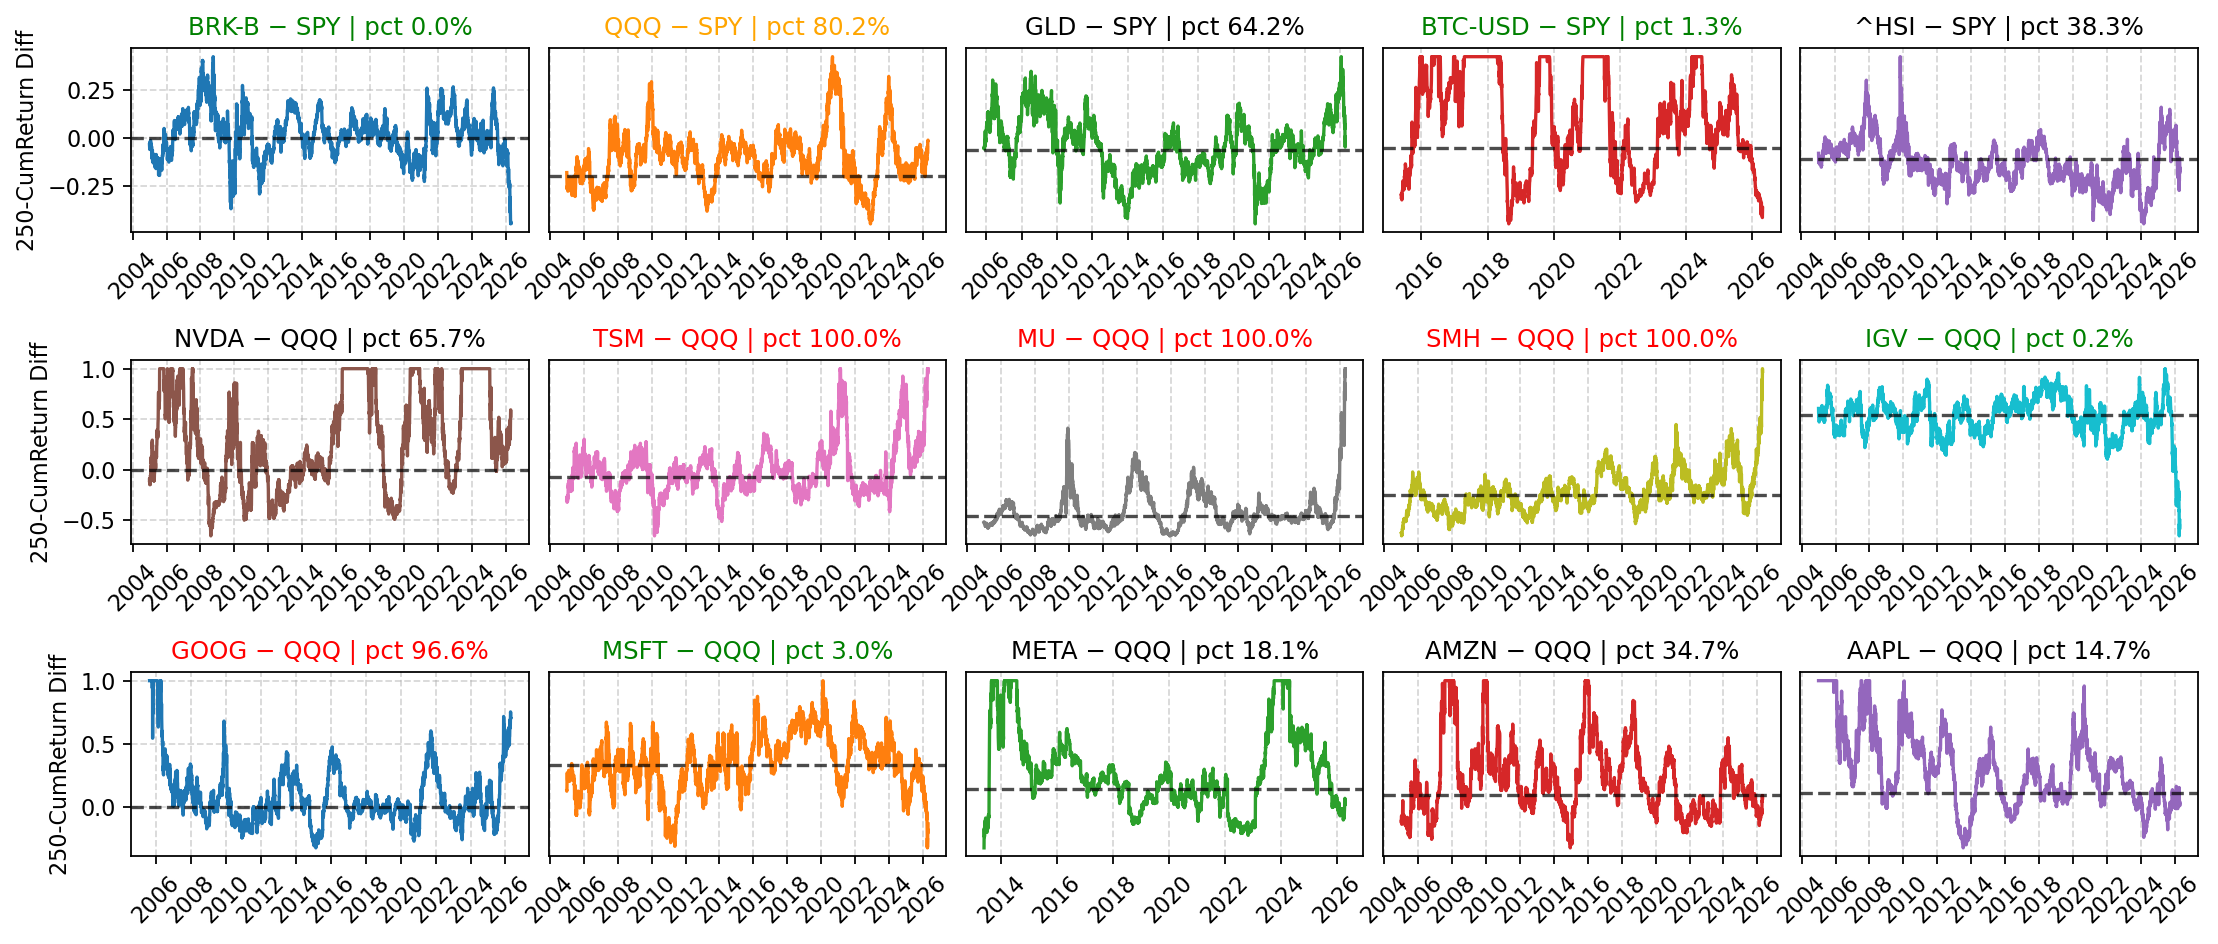
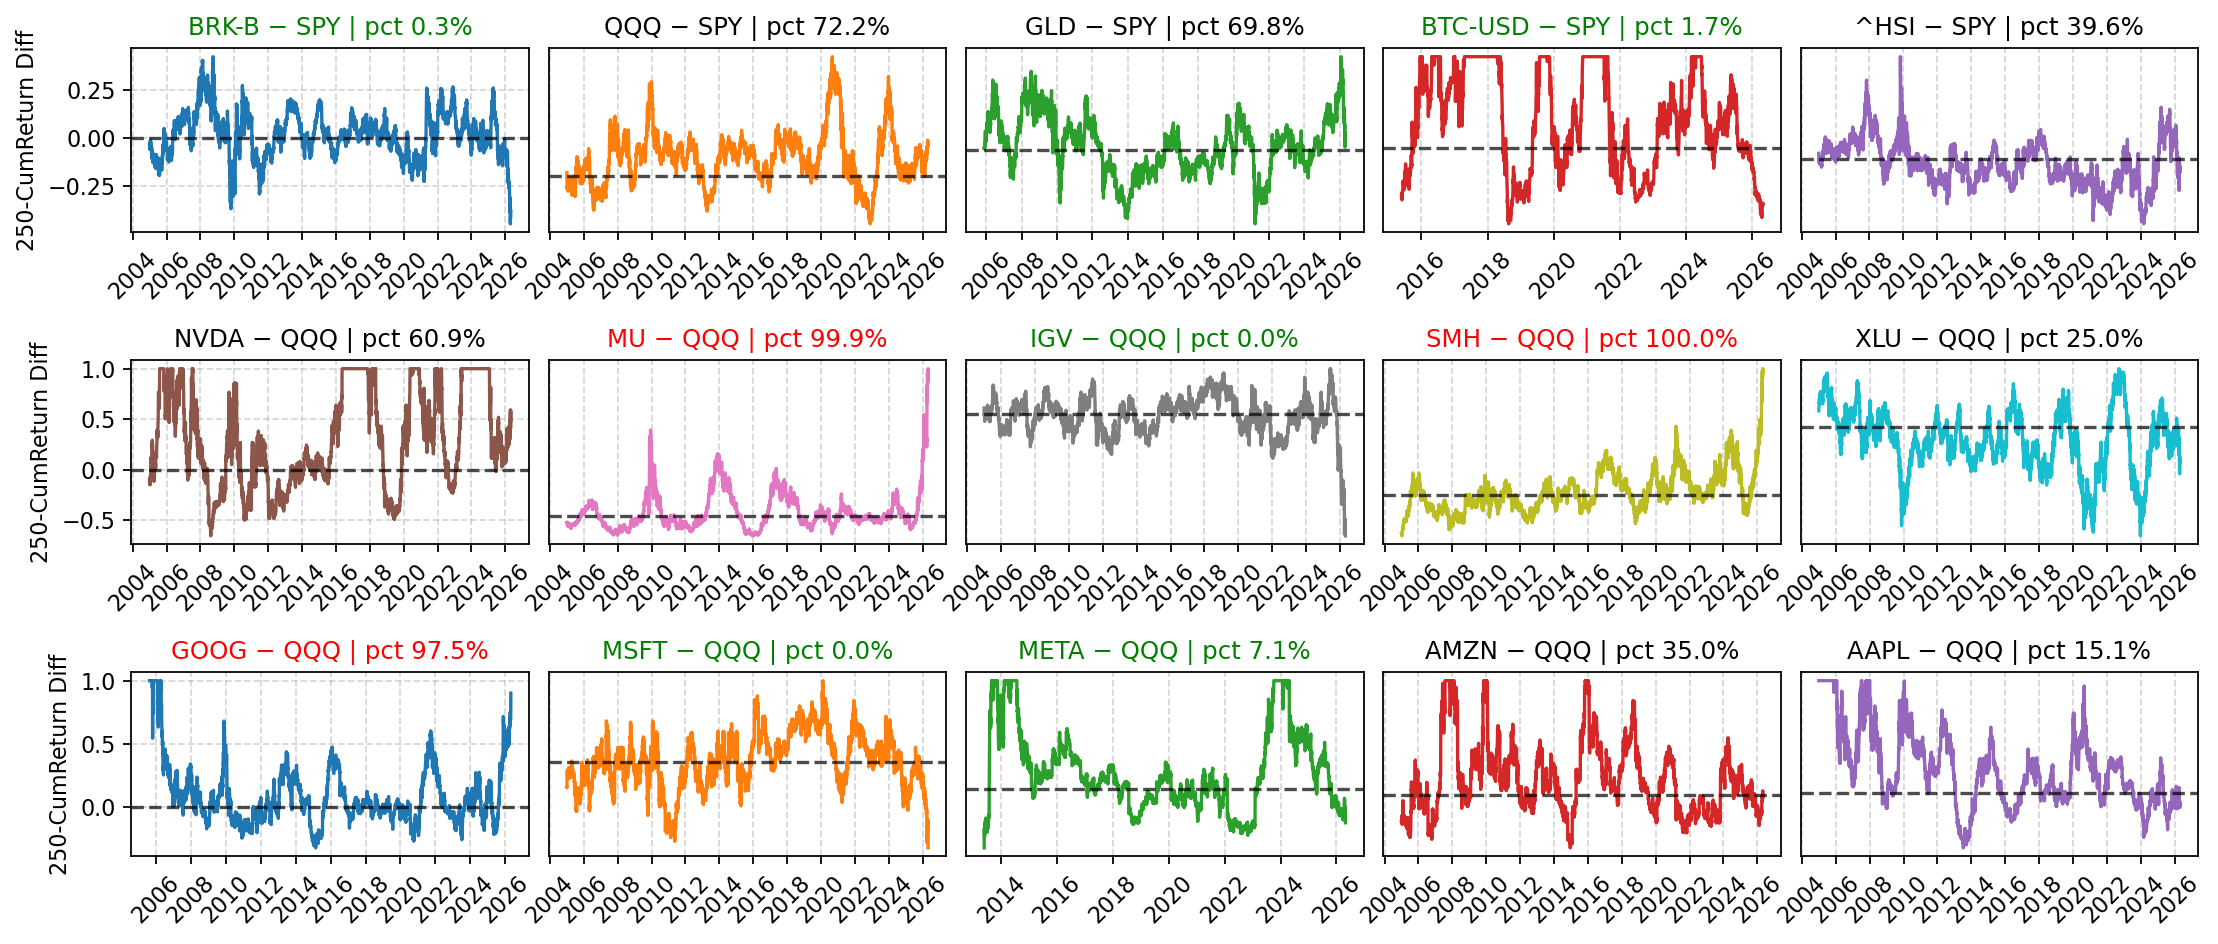
.

diff --git a/docs/index.html b/docs/index.html
@@ -12,7 +12,7 @@
 </head>
 <body>
   <h1>Rolling Pair Diffs (250-day)</h1>
-  <div class="meta">Last updated: 2026-04-23 13:15 UTC</div>
+  <div class="meta">Last updated: 2026-04-30 15:47 UTC</div>
   <p><img src="rolling_pairs.png" alt="rolling pairs figure"></p>
   <div class="note">
     Data via <code>yfinance</code>. Figure regenerates daily via GitHub Actions.

diff --git a/auto_macro_pair_monitor.py b/auto_macro_pair_monitor.py
@@ -26,10 +26,10 @@ PAIRS = [
     ('BTC-USD', 'SPY'),  
     ('^HSI', 'SPY'),      
     ('NVDA', 'QQQ'),     
-    ('TSM', 'QQQ'),  
-    ('MU', 'QQQ'),      
+    ('MU', 'QQQ'),  
+    ('IGV', 'QQQ'),      
     ('SMH', 'QQQ'),  
-    ('IGV', 'QQQ'),  
+    ('XLU', 'QQQ'),  
     ('GOOG', 'QQQ'),     
     ('MSFT', 'QQQ'),   
     ('META', 'QQQ'),    
